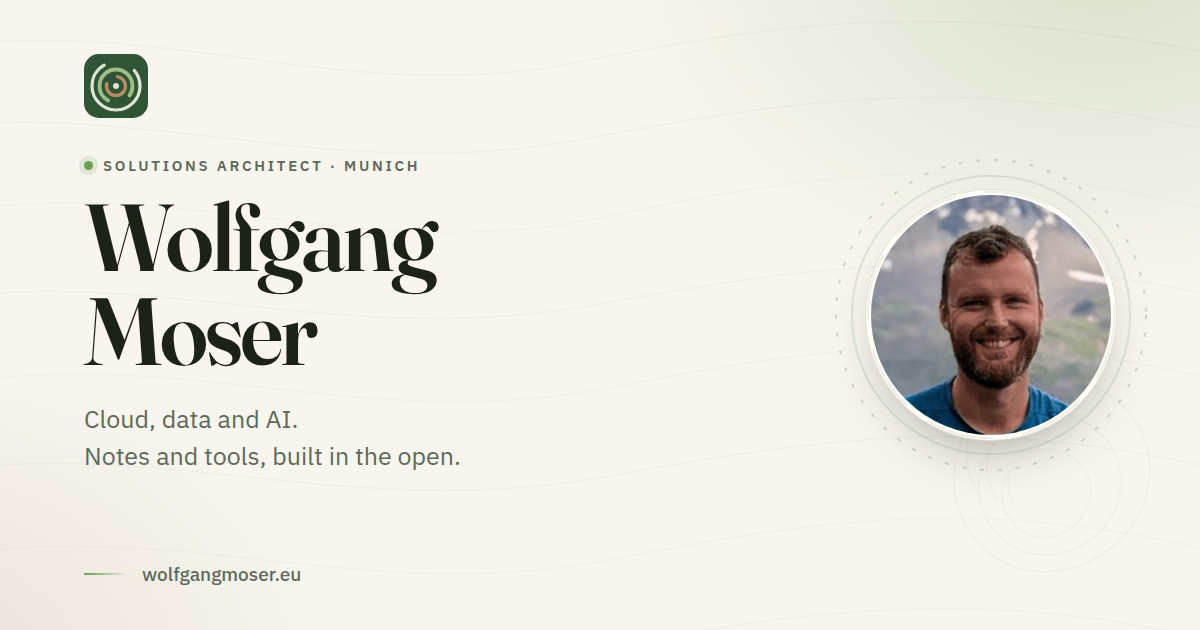
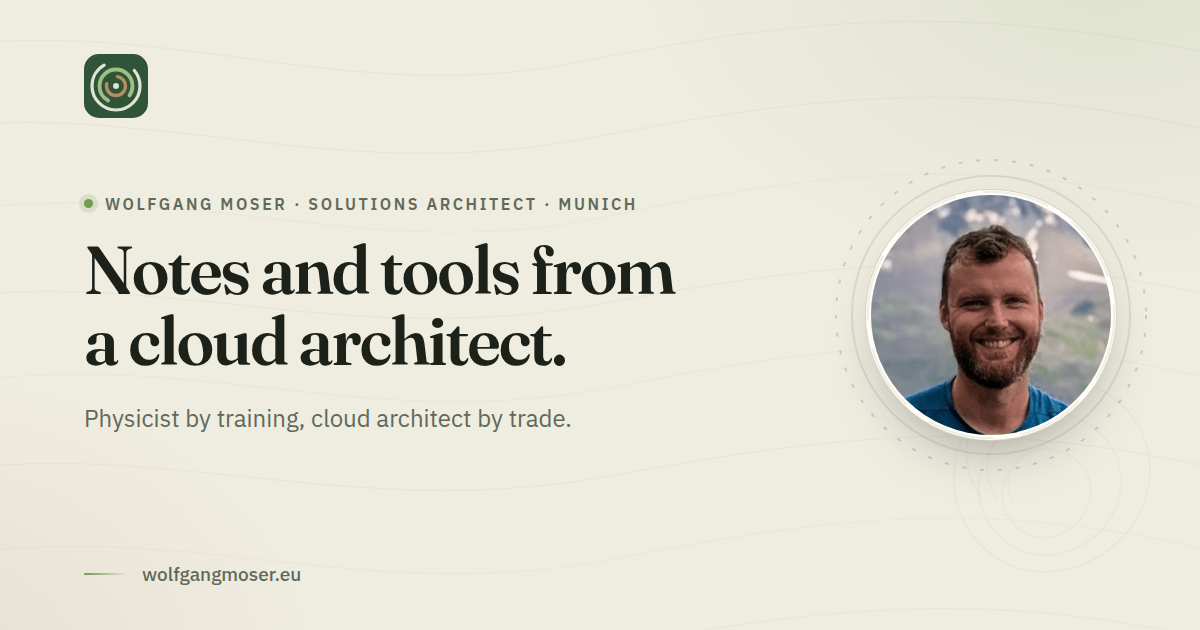
Refresh landing page assets and README
- Use the blog's native 265x265 portrait PNG instead of an upscaled JPEG\n- Regenerate the OG image with the final palette and statement headline\n- Add the growth-rings logo and a proper title to the README\n- Make the DNS deployment instructions provider-agnostic

Changed region(s): [[0.0617, 0.3016, 0.5858, 0.6032], [0.0617, 0.6333, 0.4625, 0.754], [0.0617, 0.2413, 0.37, 0.2714]]

diff --git a/index.html b/index.html
@@ -27,7 +27,7 @@
   <meta property="og:image" content="https://wolfgangmoser.eu/assets/og-image.png">
   <meta property="og:image:width" content="1200">
   <meta property="og:image:height" content="630">
-  <meta property="og:image:alt" content="Wolfgang Moser, Solutions Architect in Munich">
+  <meta property="og:image:alt" content="Notes and tools from a cloud architect — Wolfgang Moser">
   <meta name="twitter:card" content="summary_large_image">
   <meta name="twitter:title" content="Wolfgang Moser — Solutions Architect in Munich">
   <meta name="twitter:description" content="Physicist turned Solutions Architect in Munich. Cloud, data and AI notes and tools.">
@@ -75,7 +75,7 @@
         "@id": "https://wolfgangmoser.eu/#person",
         "name": "Wolfgang Moser",
         "url": "https://wolfgangmoser.eu/",
-        "image": "https://wolfgangmoser.eu/assets/me.jpg",
+        "image": "https://wolfgangmoser.eu/assets/me.png",
         "jobTitle": "Solutions Architect",
         "description": "Physicist turned Solutions Architect in Munich, working on cloud, data, AI and DevOps.",
         "hasCredential": {
@@ -168,7 +168,7 @@
             <circle cx="80" cy="80" r="62" stroke-opacity=".18" stroke-width="1" stroke-dasharray="34 14"/>
           </svg>
           <span class="portrait-frame">
-            <img class="portrait" src="/assets/me.jpg" width="320" height="320" alt="Wolfgang Moser" fetchpriority="high">
+            <img class="portrait" src="/assets/me.png" width="265" height="265" alt="Wolfgang Moser" fetchpriority="high">
           </span>
         </div>
 

diff --git a/README.md b/README.md
@@ -1,6 +1,10 @@
-# landing-page
+<p align="center">
+  <img src="assets/logo.svg" alt="Wolfgang Moser growth-rings logo" width="72" height="72">
+</p>
 
-Personal landing page for [wolfgangmoser.eu](https://wolfgangmoser.eu).
+<h1 align="center">wolfgangmoser.eu</h1>
+
+<p align="center">Personal landing page for Wolfgang Moser — cloud, data and AI.</p>
 
 Plain HTML, CSS and a few lines of JavaScript. No build step, no framework. The page is
 served by GitHub Pages from the root of the `main` branch.
@@ -27,15 +31,17 @@ Then open <http://127.0.0.1:8000/>.
 | `assets/` | Portrait, logo, favicons, social image |
 | `assets/logo.svg` | Primary growth-rings logo (SVG source) |
 | `assets/logo-small.svg` | Simplified 16px favicon variant |
+| `assets/me.png` | Portrait, copied from the blog's source image |
+| `assets/og-image.png` | 1200×630 social sharing card |
 
 ## Deployment
 
 1. GitHub Pages: **Settings → Pages → Deploy from a branch → `main` / `/ (root)`**.
 2. Custom domain: `wolfgangmoser.eu` (also stored in `CNAME`).
-3. DNS at Netim:
+3. At your DNS provider:
    - `A @` → `185.199.108.153`, `185.199.109.153`, `185.199.110.153`, `185.199.111.153`
    - `CNAME www` → `wolfm89.github.io`
-   - Leave `blog`, `tpm`, MX, TXT and ACM validation records untouched.
+   - Leave unrelated records (subdomains, MX, TXT and validation records) unchanged.
 4. After the DNS check passes, enable **Enforce HTTPS**.
 
 ## Content notes
